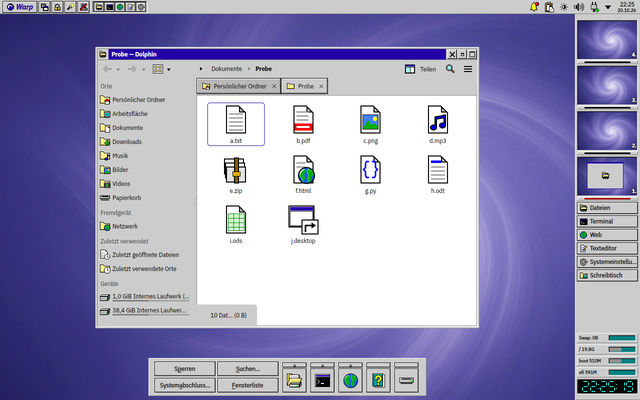
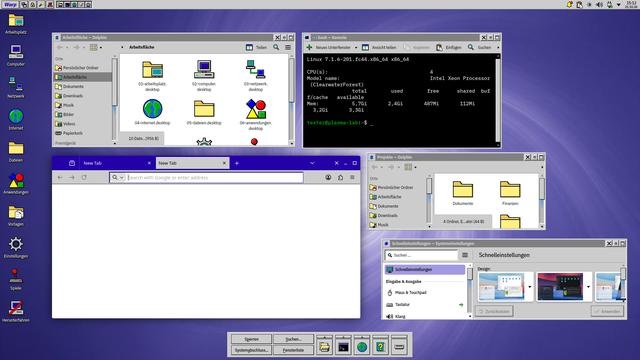
Warp Legacy: neue Vorschaubilder und README-Fotos
Beide Varianten in der Anordnung für Bildschirmfotos (Warp Bar oben,
LaunchPad unten, demo-scene.sh --panels screenshots) bei 1920x1080:
previews/ für Systemeinstellungen › Globales Design, screenshots/ für
die README.

diff --git a/os2-warp/README.md b/os2-warp/README.md
@@ -3,8 +3,8 @@
 OS/2 Warp 4 for KDE Plasma 6, in two variants: the classic Warp 4 grey,
 and **Neon**, OS/2 at night with cyan and violet glowing edges.
 
-![Warp Legacy](screenshots/stufe9-layout-klassisch.png)
-![Warp Legacy Neon](screenshots/stufe6-neon-icons.png)
+![Warp Legacy](screenshots/warp-classic-2026-10.png)
+![Warp Legacy Neon](screenshots/warp-neon-2026-10.png)
 
 Not affiliated with IBM, Arca Noae or Stardock. "OS/2" and "Warp" are
 trademarks of IBM; nothing of IBM's or Stardock's is included: the icons,
